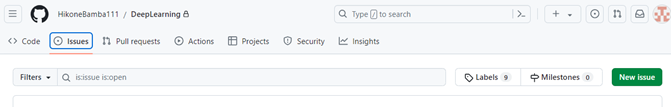
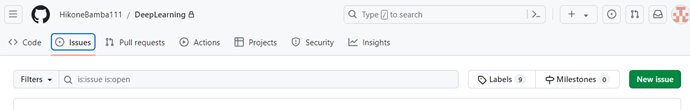
画像修正

diff --git a/github.htm b/github.htm
@@ -215,7 +215,7 @@ alt="グラフィカル ユーザー インターフェイス, テキスト, ア
 href="https://github.com/HikoneBamba111/DeepLearning">https://github.com/HikoneBamba111/DeepLearning</a></span><span
 class=MsoHyperlink>　</span>にアクセス可能となるはず：</p>
 
-<p class=MsoNormal><span lang=EN-US><img border=0 width=762 height=460
+<p class=MsoNormal><span lang=EN-US><img border=0 width=745 height=450
 src="github.files/image004.png"
 alt="グラフィカル ユーザー インターフェイス, テキスト, アプリケーション, メール&#10;&#10;自動的に生成された説明"></span></p>
 
@@ -243,7 +243,7 @@ lang=EN-US>DeepLearning repository</span>内にある”<span lang=EN-US>biwako<
 
 <p class=MsoNormal>試しに、「練習<span lang=EN-US>_</span>入れ子関数呼出し<span lang=EN-US>.py</span>」をクリック：</p>
 
-<p class=MsoNormal><span lang=EN-US><img border=0 width=842 height=122
+<p class=MsoNormal><span lang=EN-US><img border=0 width=829 height=120
 src="github.files/image005.png"
 alt="グラフィカル ユーザー インターフェイス, テキスト, アプリケーション, チャットまたはテキスト メッセージ, Web サイト&#10;&#10;自動的に生成された説明"></span></p>
 
@@ -254,7 +254,7 @@ alt="グラフィカル ユーザー インターフェイス, テキスト, ア
 <p class=MsoNormal><span style='position:absolute;z-index:251659264;left:0px;
 margin-left:546px;margin-top:270px;width:32px;height:69px'><img width=32
 height=69 src="github.files/image006.png"></span><span lang=EN-US><img
-border=0 width=637 height=646 src="github.files/image007.png"
+border=0 width=642 height=651 src="github.files/image007.png"
 alt="グラフィカル ユーザー インターフェイス, テキスト, アプリケーション, メール&#10;&#10;自動的に生成された説明"></span></p>
 
 <p class=MsoNormal><span lang=EN-US>&nbsp;</span></p>
@@ -271,7 +271,7 @@ lang=EN-US style='font-family:Wingdings'>Ø<span style='font:7.0pt "Times New Ro
 </span></span><span lang=EN-US>python </span>練習<span lang=EN-US>_</span>入れ子関数呼出し<span
 lang=EN-US>.py</span></p>
 
-<p class=MsoNormal><span lang=EN-US><img border=0 width=703 height=161
+<p class=MsoNormal><span lang=EN-US><img border=0 width=717 height=164
 src="github.files/image008.png" alt="テキスト&#10;&#10;自動的に生成された説明"></span></p>
 
 <p class=MsoNormal><span lang=EN-US>&nbsp;</span></p>
@@ -295,14 +295,14 @@ lang=EN-US>GutHub</span>の<span lang=EN-US>Issue</span>機能等を用いて連
 <p class=MsoNormal><span lang=EN-US>Issues &gt; New issue</span></p>
 
 <p class=MsoNormal><span style='position:absolute;z-index:251660288;left:0px;
-margin-left:41px;margin-top:28px;width:58px;height:51px'><img width=58
+margin-left:41px;margin-top:29px;width:58px;height:51px'><img width=58
 height=51 src="github.files/image009.png"></span><span lang=EN-US><img
-border=0 width=671 height=107 src="github.files/image010.png"
+border=0 width=690 height=110 src="github.files/image010.png"
 alt="グラフィカル ユーザー インターフェイス, アプリケーション, Word&#10;&#10;自動的に生成された説明"></span></p>
 
 <p class=MsoNormal>発生した<span lang=EN-US>Issue</span>内容を同僚に訴えるため、症状を記述する</p>
 
-<p class=MsoNormal><span lang=EN-US><img border=0 width=676 height=423
+<p class=MsoNormal><span lang=EN-US><img border=0 width=686 height=430
 src="github.files/image011.png"
 alt="グラフィカル ユーザー インターフェイス, テキスト, アプリケーション, メール&#10;&#10;自動的に生成された説明"></span></p>
 
@@ -310,7 +310,7 @@ alt="グラフィカル ユーザー インターフェイス, テキスト, ア
 
 <p class=MsoNormal><span lang=EN-US>Submit </span>で送信する</p>
 
-<p class=MsoNormal><span lang=EN-US><img border=0 width=675 height=612
+<p class=MsoNormal><span lang=EN-US><img border=0 width=681 height=617
 src="github.files/image012.png"
 alt="グラフィカル ユーザー インターフェイス, テキスト, アプリケーション, Teams&#10;&#10;自動的に生成された説明"></span></p>
 

diff --git a/index.html b/index.html
@@ -49,7 +49,7 @@
       各自のITリテラシー水準によって進捗が異なることが想定されるため、つまづき原因を明らかにし、それを授業で解決することが望まれる。
       </p>
       <p>  
-      授業運営の都合上、本講義内での学生による学習環境に関する干渉事項と寛容事項に関するポリシーを以下としたい：
+      授業運営の都合上、本講義内での学生による学習環境に関する干渉事項と寛容事項に関するポリシーを以下としたい： 
       ・干渉事項：Pythonのversion
       ・裁量事項：BYODのPCのハード／OS仕様、利用テキスト・エディタ、プログラム開発環境
       </p>
